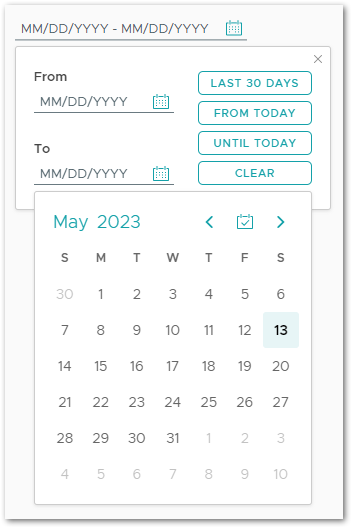
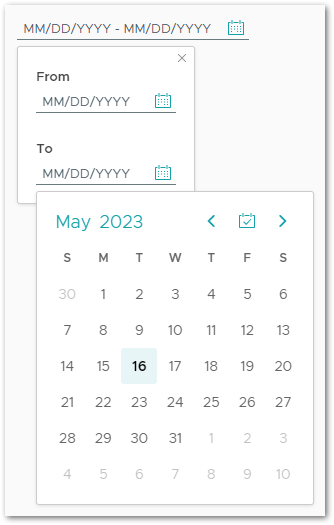
Website documentation. WIP

diff --git a/website/src/app/documentation/demos/daterangepicker/daterangepicker.demo.html b/website/src/app/documentation/demos/daterangepicker/daterangepicker.demo.html
@@ -12,14 +12,11 @@
       <div class="clrweb-DoxMedia">
         <div class="clrweb-DoxMedia-block">
           <div class="clrweb-DoxMedia-img">
-            <img
-              src="assets/images/documentation/daterangepicker-screenshot.png"
-              alt="Screenshot of daterangepicker with presets option"
-            />
+            <img src="assets/images/documentation/daterangepicker-screenshot.png" alt="Screenshot of daterangepicker" />
           </div>
         </div>
         <div class="clrweb-DoxMedia-text">
-          <p>Screenshot of daterangepicker with presets option.</p>
+          <p>Screenshot of a basic daterangepicker.</p>
         </div>
       </div>
     </div>
@@ -82,13 +79,52 @@
       <clr-code-snippet [clrCode]="minMaxDemo"></clr-code-snippet>
 
       <h4>Presets</h4>
-      <p>TODO</p>
+      <div class="clr-row">
+        <div class="clr-col-12 clr-col-md-6">
+          <p>
+            To quicker set fixed dateranges, it is possible to set a list of presets. Any preset will create an button
+            in the popover next to the Date Pickers. Once pressed, the preset will fill the "from" and "to" Date Pickers
+            with an hard-coded or dynamic date. You can choose to fill both dates, for example with the last 30 days. Or
+            you can set only one date of the daterange, for example if you want today to be pre-filled. Only when both
+            values are present, the popover will close and update the model. You can set as many presets as you want,
+            but an maximum of 4 is advised.
+          </p>
+        </div>
+        <div class="clr-col-12 clr-col-md-6">
+          <div class="clrweb-DoxMedia">
+            <div class="clrweb-DoxMedia-block">
+              <div class="clrweb-DoxMedia-img">
+                <img
+                  src="assets/images/documentation/daterangepicker-presets-screenshot.png"
+                  alt="Screenshot of daterangepicker with presets option"
+                />
+              </div>
+            </div>
+            <div class="clrweb-DoxMedia-text">
+              <p>Screenshot of daterangepicker with presets option.</p>
+            </div>
+          </div>
+        </div>
+      </div>
+      <p>
+        To add presets, you can use the <code>DaterangePreset</code> interface. It contains an property for text of the
+        button: <code>text</code>. And it contains an function that returns an <code>Daterange</code>, which will be
+        called once the preset button is clicked.
+      </p>
+      <form clrForm>
+        <clr-daterangepicker-container [presets]="presets">
+          <label>Presets</label>
+          <input clrDaterangepicker type="date" name="daterange-preset" [(ngModel)]="value" />
+        </clr-daterangepicker-container>
+      </form>
+      <clr-code-snippet [clrCode]="presetsDemo"></clr-code-snippet>
+      <clr-code-snippet [clrCode]="presetsTypescriptDemo" clrLanguage="typescript"></clr-code-snippet>
 
       <h4>Position</h4>
       <p>
         It is possible to change the position of the popover, which contains the two Date Pickers. This works the same
-        as the <a href="https://clarity.design/documentation/datepicker">Clarity Date Pickers</a>, aldo this option is
-        not documented.
+        as the <a href="https://clarity.design/documentation/datepicker">Clarity Date Pickers</a>, although this option
+        is not documented.
       </p>
       <p>The <code>clrPosition</code> attribute accepts one of the following strings:</p>
       <ul>

diff --git a/website/src/app/documentation/demos/daterangepicker/daterangepicker.demo.ts b/website/src/app/documentation/demos/daterangepicker/daterangepicker.demo.ts
@@ -1,6 +1,6 @@
 import { Component } from '@angular/core';
 import { ClarityDocComponent } from '../clarity-doc';
-import { NullableDaterange } from '@porscheinformatik/clr-addons';
+import { DaterangePreset, DayModel, NullableDaterange } from '@porscheinformatik/clr-addons';
 
 const BASIC_DEMO = `
 <form clrForm>
@@ -20,6 +20,76 @@ const MIN_MAX_DEMO = `
   </clr-daterangepicker-container>
 </form>
 `;
+const PRESETS_DEMO = `
+<form clrForm>
+  <clr-daterangepicker-container [presets]="presets">
+    <label>Presets</label>
+    <input clrDaterangepicker type="date" name="demo" [(ngModel)]="demo" />
+  </clr-daterangepicker-container>
+</form>
+`;
+const PRESETS_TYPESCRIPT_DEMO = `
+presets: Array<DaterangePreset> = [
+  {
+    text: 'Last 30 days',
+    range: () => ({
+      from: new DayModel(new Date()).incrementBy(-29),
+      to: new DayModel(new Date()),
+    }),
+  },
+  {
+    text: 'From today',
+    range: () => ({
+      from: new DayModel(new Date()),
+      to: null,
+    }),
+  },
+  {
+    text: 'Until today',
+    range: () => ({
+      from: null,
+      to: new DayModel(new Date()),
+    }),
+  },
+  {
+    text: 'Clear',
+    range: () => ({
+      from: null,
+      to: null,
+    }),
+  },
+];
+`;
+const PRESETS: Array<DaterangePreset> = [
+  {
+    text: 'Last 30 days',
+    range: () => ({
+      from: new DayModel(new Date()).incrementBy(-29),
+      to: new DayModel(new Date()),
+    }),
+  },
+  {
+    text: 'From today',
+    range: () => ({
+      from: new DayModel(new Date()),
+      to: null,
+    }),
+  },
+  {
+    text: 'Until today',
+    range: () => ({
+      from: null,
+      to: new DayModel(new Date()),
+    }),
+  },
+  {
+    text: 'Clear',
+    range: () => ({
+      from: null,
+      to: null,
+    }),
+  },
+];
 const POSITIONS_DEMO = `
 <form clrForm>
   <clr-daterangepicker-container [clrPosition]="'left-top'">
@@ -65,6 +135,9 @@ export class DaterangepickerDemo extends ClarityDocComponent {
   value: NullableDaterange;
   basicDemo = BASIC_DEMO;
   minMaxDemo = MIN_MAX_DEMO;
+  presets = PRESETS;
+  presetsDemo = PRESETS_DEMO;
+  presetsTypescriptDemo = PRESETS_TYPESCRIPT_DEMO;
   positionsDemo = POSITIONS_DEMO;
   labelsTranslationDemo = LABELS_TRANSLATION_DEMO;
   separatorDemo = SEPARATOR_DEMO;
